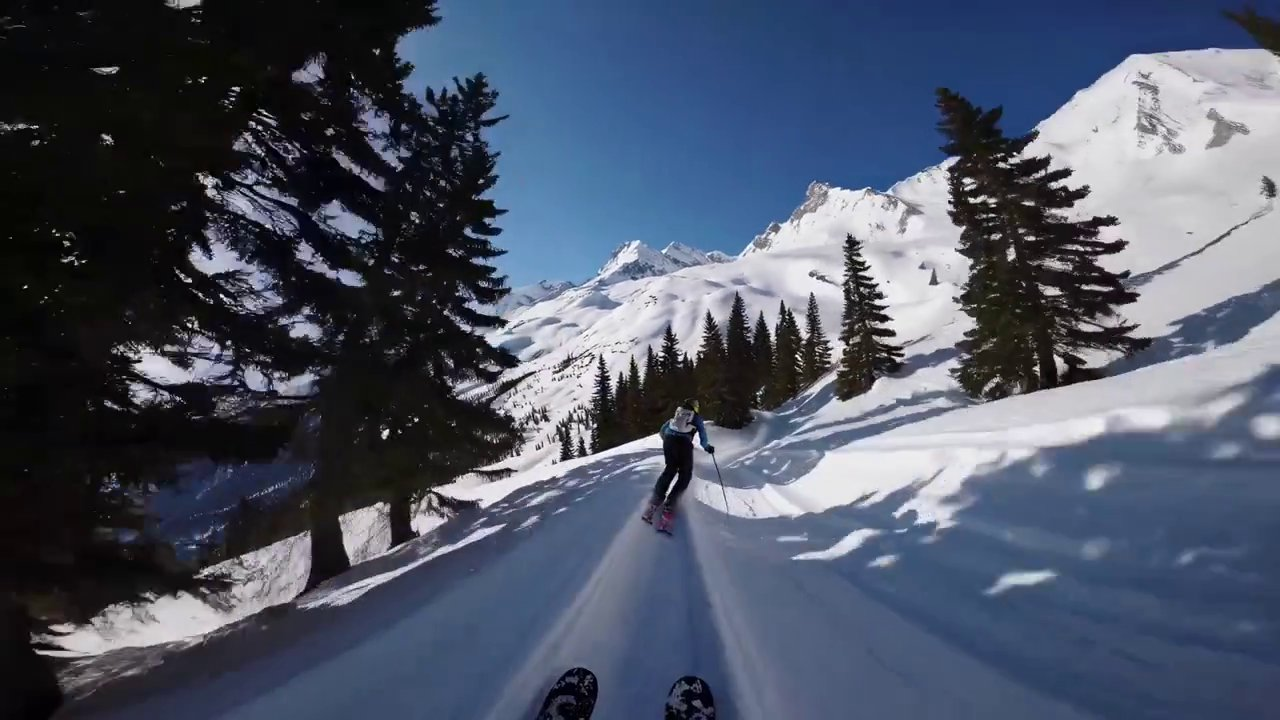
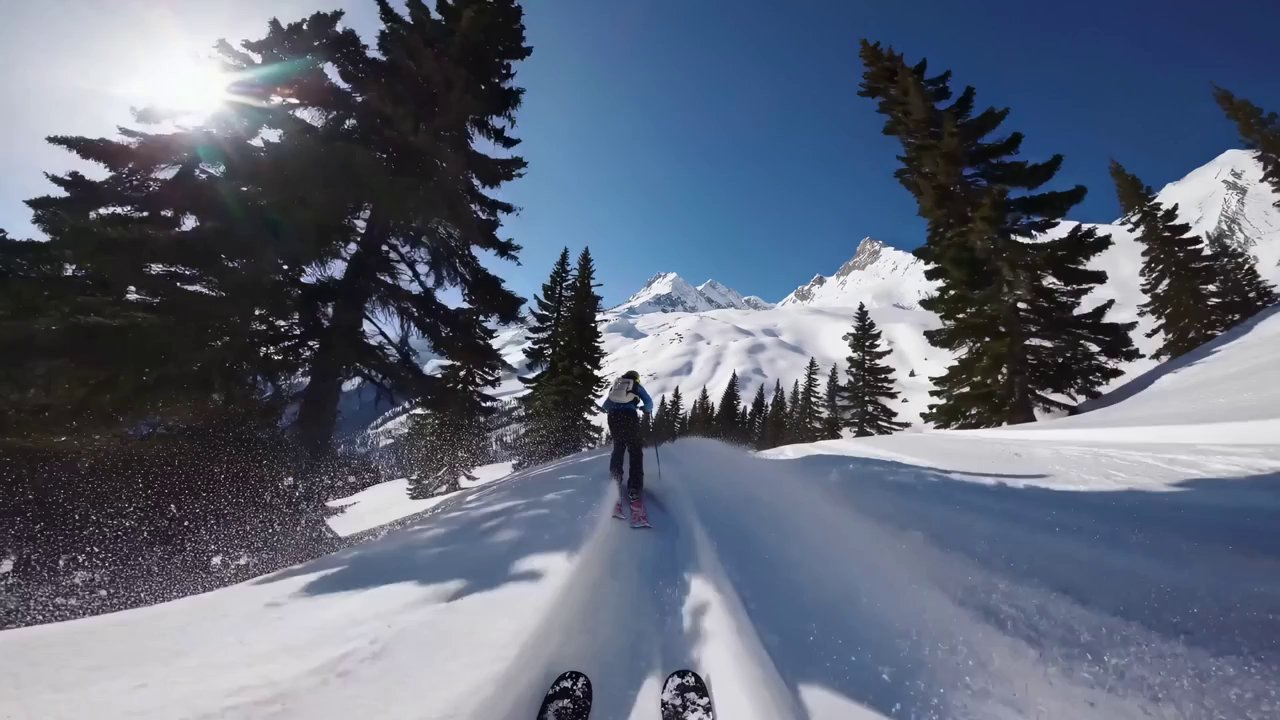
Ski page hero: layout from the Figma file, soft video fade-in, brighter video, no links under the button

diff --git a/assets/css/ski.css b/assets/css/ski.css
@@ -168,3 +168,39 @@ main>section#why{padding:0!important}
 main>section#safety{background:linear-gradient(180deg,#CEEAFF,#ECF6FF)!important}
 main>section#route{background:#062C8F!important}
 main>section#expect{background:linear-gradient(90deg,#00A5FF 0%,#0043BF 50%,#002078 100%)!important}
+
+/* шапка по макету: меню слева, логотип по центру, контакты справа; видео проявляется плавно */
+@media (min-width:900px){
+  .head .head-in{display:grid!important;grid-template-columns:1fr auto 1fr;gap:20px;padding-block:10px}
+  .head .head-in nav{order:1;justify-self:start;font-size:17px;gap:49px}
+  .head .head-in .brand{order:2;justify-self:center}
+  .head .head-in .head-cta{order:3;justify-self:end;gap:18px}
+  .head .head-in .logo-tour{height:44px;width:auto;display:block}
+  .head .head-contact{font-size:17px}
+}
+.head:not(.scrolled)::before{background:rgba(19,19,19,.35)!important;border-bottom-color:transparent!important}
+.hero.hero-f2 .hero-bg{background-image:url("../img/ski-hero-poster.jpg")!important;background-position:center!important;animation:none!important;filter:brightness(1.14)}
+.hero.hero-f2 .hero-video{opacity:0;transition:opacity 1.1s ease;filter:brightness(1.14)}
+.hero.hero-f2 .hero-video.on{opacity:1}
+.hero.hero-f2{min-height:min(100vh,860px)!important}
+.hero.hero-f2 .hero-main{padding-top:clamp(110px,20.6vh,177px)!important;padding-bottom:clamp(60px,12vh,150px)!important;margin-block:0 auto!important}
+.hero.hero-f2 .sk-facts{gap:17px;margin:0 0 49px}
+.hero.hero-f2 .sk-facts span{border-radius:19px;padding:11px 18px}
+.hero.hero-f2 h1.sk-h1{font-family:var(--f-accent)!important;font-weight:700;font-size:clamp(38px,7vw,101px)!important;line-height:.9!important;letter-spacing:0!important;text-transform:uppercase;white-space:nowrap;color:#fff;margin:0}
+.hero.hero-f2 h1.sk-h1 span{display:block;font-size:.782em;letter-spacing:.03em;color:#E4F5FF;margin-top:.23em}
+.hero.hero-f2 .sk-desc{font-family:var(--f-body)!important;font-weight:400;font-size:clamp(17px,1.46vw,21px)!important;line-height:1.22!important;max-width:520px!important;margin:43px auto 0!important;color:#fff}
+.sk-cta{display:inline-flex;align-items:center;justify-content:center;margin-top:79px;height:55px;padding-inline:29px;border-radius:14px 14px 14px 0;background:#0043BF;color:#fff!important;font-weight:700;font-size:19px;text-decoration:none;transition:transform .2s}
+.sk-cta:hover{transform:translateY(-2px)}
+@media (max-width:900px){.hero.hero-f2 h1.sk-h1{white-space:normal}.sk-cta{margin-top:48px}.hero.hero-f2 .sk-facts{margin-bottom:30px;gap:8px}}
+@media (prefers-reduced-motion:reduce){.hero.hero-f2 .hero-video{transition:none}}
+@media (min-width:900px){
+  #head .head-in{display:grid!important;grid-template-columns:1fr auto 1fr!important;justify-content:normal!important}
+  #head .head-in nav{order:1!important;justify-self:start!important;margin:0!important;position:static!important;transform:none!important}
+  #head .head-in .brand{order:2!important;justify-self:center!important;margin:0!important}
+  #head .head-in .head-cta{order:3!important;justify-self:end!important;margin:0!important}
+}
+@media (min-width:900px){
+  #head .head-in nav{grid-column:1!important;grid-row:1!important}
+  #head .head-in .brand{grid-column:2!important;grid-row:1!important}
+  #head .head-in .head-cta{grid-column:3!important;grid-row:1!important}
+}

diff --git a/polet-na-lyzhah.html b/polet-na-lyzhah.html
@@ -27,10 +27,9 @@
   <video class="hero-video" autoplay muted loop playsinline preload="metadata" poster="assets/img/ski-hero-poster.jpg"><source src="assets/video/ski-hero.mp4" type="video/mp4"></video>
   <div class="wrap hero-main">
     <p class="sk-facts"><span>3 дня / 2 ночи</span><span>5 мест</span><span>6 самолётов С-20</span></p>
-    <h1>Полёт на лыжах<br><span class="h1-big">Урал</span></h1>
-    <p class="hero-desc">Три дня на Южном Урале. Шесть самолётов С-20 на лыжном шасси, час сорок над хребтами, склоны Абзаково, баня и вечера с пилотами</p>
-    <div class="hero-links"><a class="btn hero-cta" href="#apply">Забронировать место</a></div>
-    <div class="hero-links" style="margin-top:26px!important"><a class="hero-link" href="#route">Маршрут кратко</a><a class="hero-link" href="#program">Программа подробнее</a></div>
+    <h1 class="sk-h1">Полёт на лыжах<span>Урал</span></h1>
+    <p class="hero-desc sk-desc">Три дня на Южном Урале. Шесть самолётов С-20 на лыжном шасси, час сорок над хребтами, склоны Абзаково, баня и вечера с пилотами</p>
+    <a class="sk-cta" href="#apply">Забронировать место</a>
   </div>
 </header>
 <main>
@@ -140,6 +139,7 @@
 var io=new IntersectionObserver(function(es){es.forEach(function(e){if(e.isIntersecting){e.target.classList.add('on');io.unobserve(e.target)}})},{threshold:.45});els.forEach(function(e){io.observe(e)});
 var ds=document.querySelectorAll('.sk-day');ds.forEach(function(d){d.addEventListener('toggle',function(){if(d.open)ds.forEach(function(o){if(o!==d)o.open=false})})})})();
 </script>
+<script>(function(){var v=document.querySelector('.hero-f2 .hero-video');if(!v)return;function t(){var d=v.duration||0;v.classList.toggle('on',v.currentTime>.12&&(!d||v.currentTime<d-.7))}v.addEventListener('timeupdate',t);v.addEventListener('playing',t)})();</script>
 <script src="assets/js/tour.js" defer></script>
 </body>
 </html>
